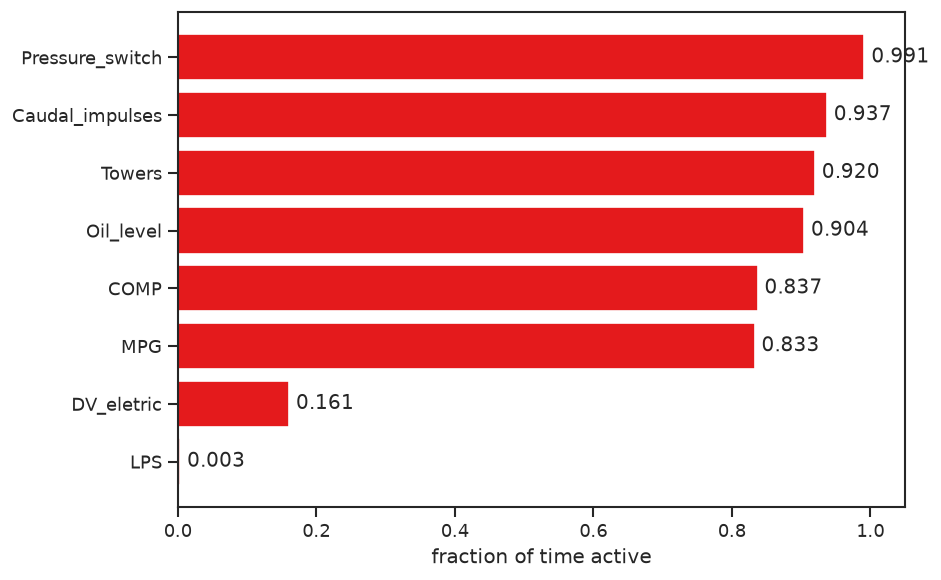
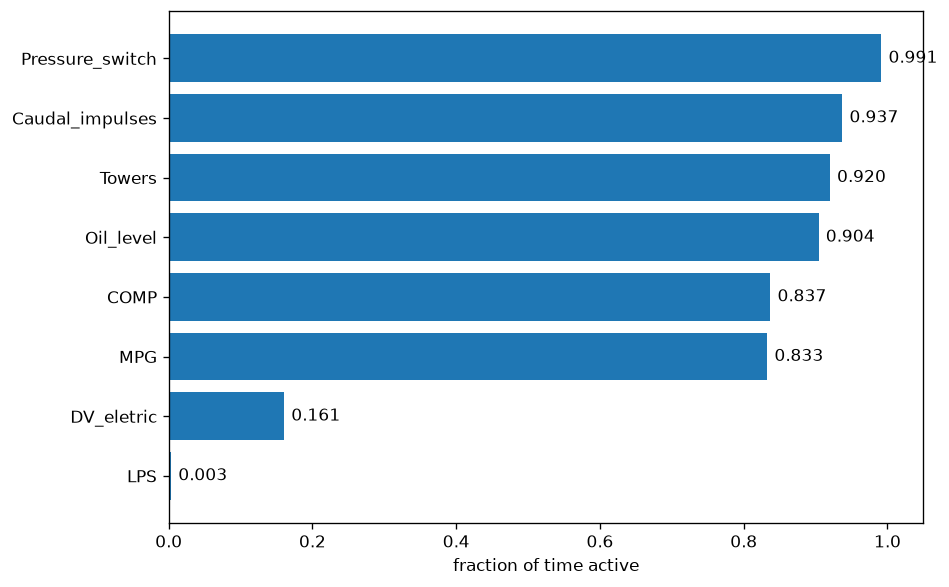
fixing save_plot function so it won't make displaying double the figure

diff --git a/src/fahm/plotting.py b/src/fahm/plotting.py
@@ -111,11 +111,13 @@ def plot_digital_summary(summary: pd.DataFrame):
     raise NotImplementedError
 
 def save_fig(fig, name: str, cfg: dict, dpi: int = 120) -> Path:
-    """Save a figure to cfg['paths']['figures'] as <name>.png; returns the path."""
+    """Save to cfg['paths']['figures']/<name>.png, CLOSE the figure, return path.
+    Closing prevents duplicate inline rendering and memory buildup."""
     out_dir = Path(cfg["paths"]["figures"])
     out_dir.mkdir(parents=True, exist_ok=True)
     out = out_dir / f"{name}.png"
     fig.savefig(out, dpi=dpi, bbox_inches="tight")
+    plt.close(fig)          # <- the fix
     return out
 
     raise NotImplementedError